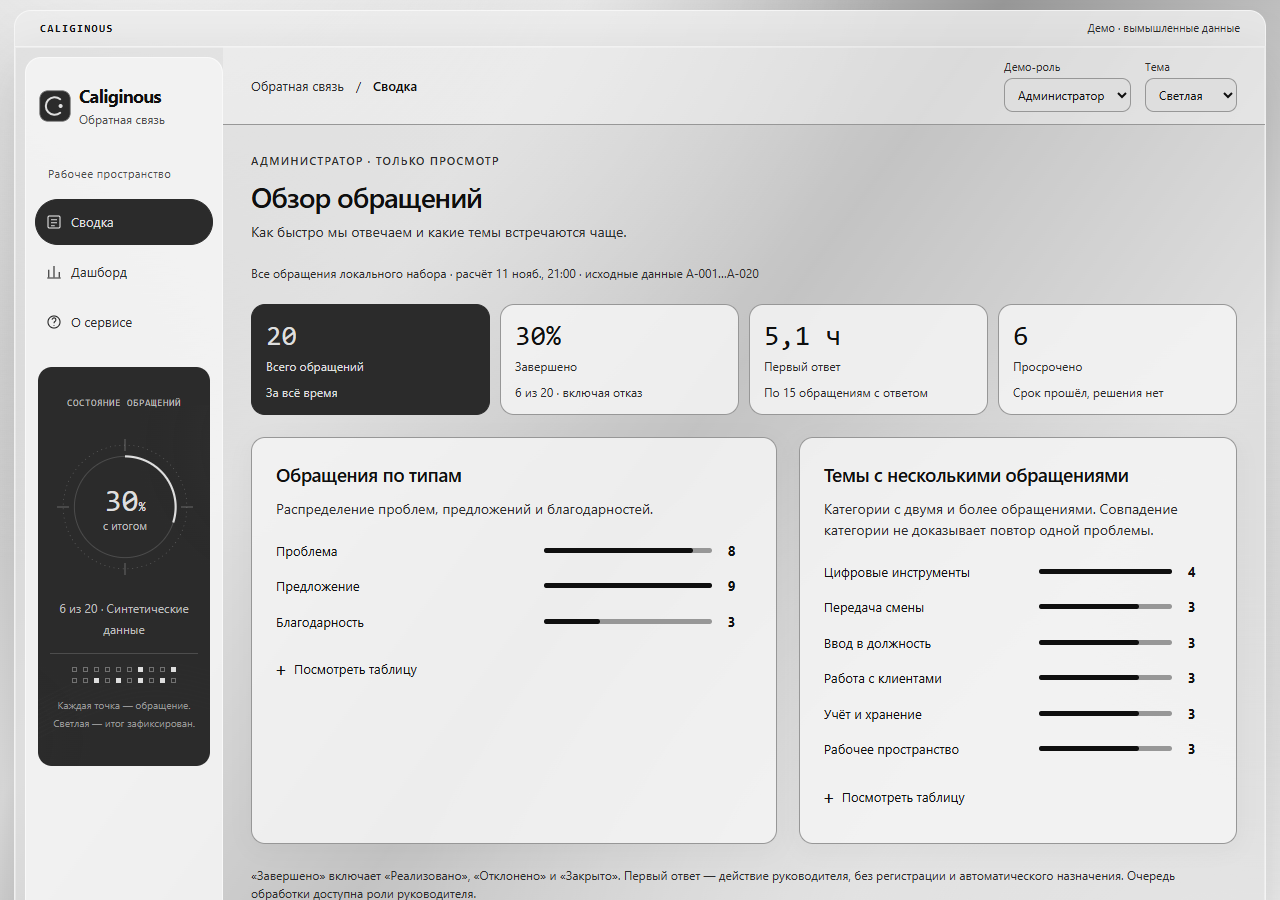
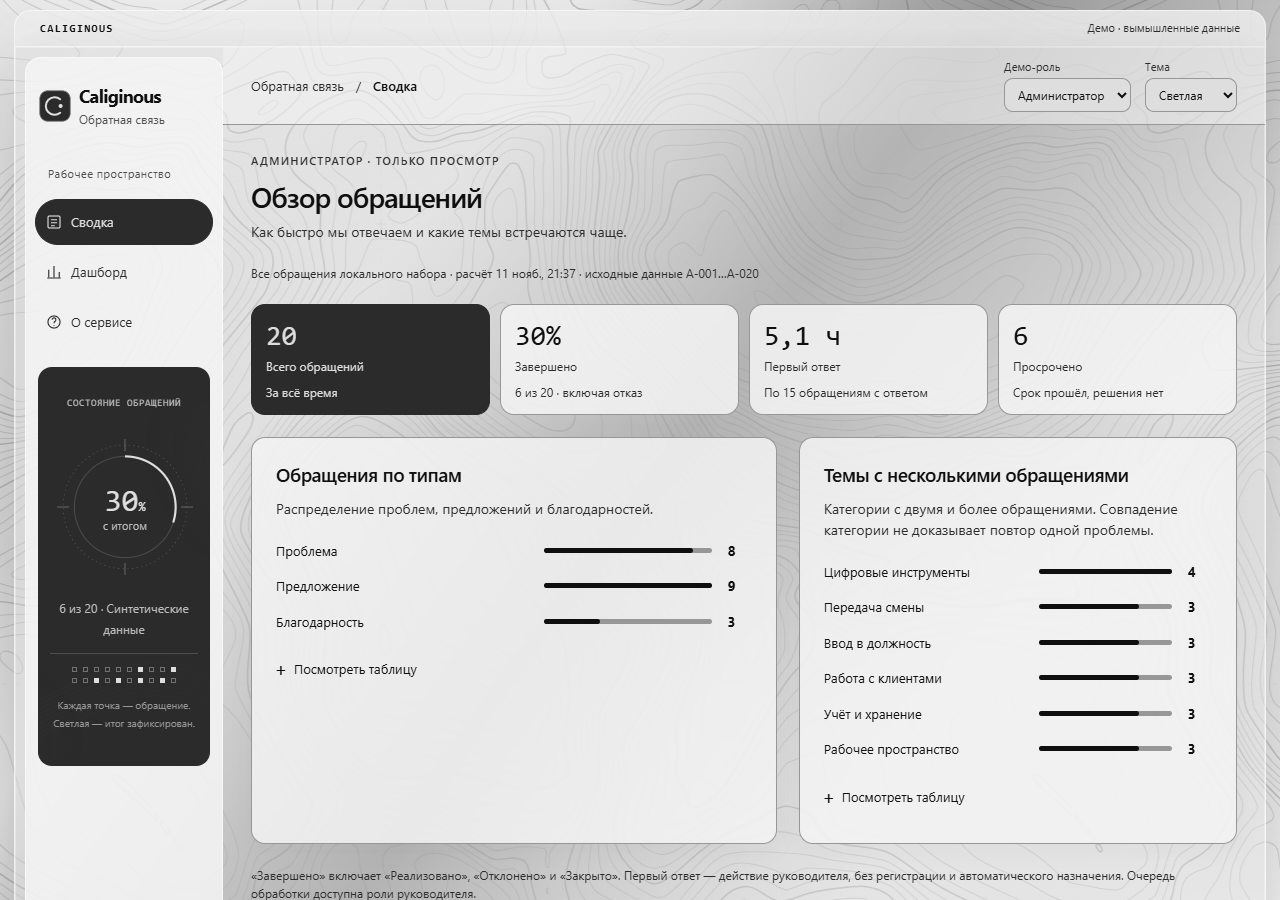
feat: animate dashboard and add contour glass backdrop

diff --git a/index.html b/index.html
@@ -1,5 +1,5 @@
 <!doctype html>
-<html lang="ru"><head><meta charset="utf-8"><meta name="viewport" content="width=device-width,initial-scale=1"><meta name="color-scheme" content="dark light"><meta name="description" content="Caliginous — интерактивное дизайн-демо сервиса обратной связи сотрудников."><title>Caliginous — обратная связь сотрудников</title><link rel="icon" href="mark.svg" type="image/svg+xml"><link rel="stylesheet" href="prototype.css"><link rel="stylesheet" href="moodboard.css"><link rel="stylesheet" href="dashboard.css"><link rel="stylesheet" href="release.css"></head>
+<html lang="ru"><head><meta charset="utf-8"><meta name="viewport" content="width=device-width,initial-scale=1"><meta name="color-scheme" content="dark light"><meta name="description" content="Caliginous — интерактивное дизайн-демо сервиса обратной связи сотрудников."><title>Caliginous — обратная связь сотрудников</title><link rel="icon" href="mark.svg" type="image/svg+xml"><link rel="stylesheet" href="prototype.css"><link rel="stylesheet" href="moodboard.css"><link rel="stylesheet" href="dashboard.css"><link rel="stylesheet" href="release.css"><link rel="stylesheet" href="motion.css"></head>
 <body class="dark">
 <a class="skip" href="#main">Перейти к содержимому</a>
 <div class="prototype-bar"><span><b>CALIGINOUS</b></span><span>Демо · вымышленные данные</span></div>
@@ -10,7 +10,7 @@
 <div class="asidebottom"><span class="avatar" aria-hidden="true">М</span><span><b id="roleName">Руководитель</b><small>Демонстрация роли</small></span></div></aside>
 <div class="workspace"><header class="app-header"><div class="breadcrumb"><span>Обратная связь</span><span aria-hidden="true">/</span><strong id="crumb">Очередь</strong></div><div class="header-controls"><label for="role">Демо-роль<select id="role"><option value="manager">Руководитель</option><option value="employee">Сотрудник</option><option value="admin">Администратор</option></select></label><label for="theme">Тема<select id="theme"><option value="dark">Тёмная</option><option value="light">Светлая</option></select></label></div></header>
 <main id="main" tabindex="-1"></main>
-<footer><span>Демо сохраняет изменения в этой вкладке</span><details class="view-tools"><summary>Настройки демо</summary><div><label for="state">Состояние интерфейса<select id="state"><option value="ready">Обычное</option><option value="loading">Загрузка</option><option value="empty">Пусто</option><option value="error">Ошибка</option><option value="partial">Частичные данные</option><option value="permission">Нет доступа</option></select></label><button id="reset" class="btn">Восстановить примеры</button></div></details></footer></div></div>
+<footer><span>Демо сохраняет изменения в этой вкладке</span><details class="view-tools"><summary>Настройки демо</summary><div><label for="state">Состояние интерфейса<select id="state"><option value="ready">Обычное</option><option value="loading">Загрузка</option><option value="empty">Пусто</option><option value="error">Ошибка</option><option value="partial">Частичные данные</option><option value="permission">Нет доступа</option></select></label><label class="checkbox-label motion-toggle"><input type="checkbox" id="motion-toggle" aria-describedby="motion-hint">Анимации</label><p id="motion-hint" class="hint" hidden>В системе включено уменьшение движения.</p><button id="reset" class="btn">Восстановить примеры</button></div></details></footer></div></div>
 <div class="sr-only" id="announcement" role="status" aria-live="polite"></div>
 <dialog id="action-dialog" aria-labelledby="dialog-title"><div class="dialog-head"><h2 id="dialog-title"></h2><button type="button" class="icon-button" id="close-dialog" aria-label="Закрыть диалог">×</button></div><div id="dialog-body"></div></dialog>
-<script src="data.js"></script><script src="workspace.js"></script><script src="dashboard.js"></script><script src="prototype.js"></script></body></html>
+<script src="data.js"></script><script src="workspace.js"></script><script src="dashboard.js"></script><script src="motion.js"></script><script src="prototype.js"></script></body></html>

diff --git a/prototype.js b/prototype.js
@@ -60,24 +60,31 @@ function nav(){
   const showSignal = (mode === 'ready' || mode === 'partial') && visibleItems.length > 0;
   sideNote.hidden = !showSignal;
   if (!showSignal) {
+    delete sideNote.dataset.snapshot;
     sideNote.replaceChildren();
     return;
   }
-  const closed = visibleItems.filter(x => terminal.includes(x.status)).length;
+  const outcomes = visibleItems.map(item => terminal.includes(item.status));
+  const snapshot = `${role}:${outcomes.map(Number).join('')}`;
+  if (sideNote.dataset.snapshot === snapshot) return;
+  sideNote.dataset.snapshot = snapshot;
+  const closed = outcomes.filter(Boolean).length;
   const percent = closed / visibleItems.length * 100;
   const scope = role === 'employee' ? 'МОИ ОБРАЩЕНИЯ' : 'СОСТОЯНИЕ ОБРАЩЕНИЙ';
   sideNote.innerHTML = `<span class="signal-label">${scope}</span>
     <div class="signal-dial">
       <svg viewBox="0 0 160 160" aria-hidden="true">
-        <circle class="dial-outer" cx="80" cy="80" r="66"/>
+        <g class="dial-orbit">
+          <circle class="dial-outer" cx="80" cy="80" r="66"/>
+          <path class="dial-cross" d="M80 8v12m0 120v12M8 80h12m120 0h12"/>
+        </g>
         <circle class="dial-track" cx="80" cy="80" r="54"/>
         <circle class="dial-progress" cx="80" cy="80" r="54" pathLength="100" stroke-dasharray="${percent} 100" transform="rotate(-90 80 80)"/>
-        <path class="dial-cross" d="M80 8v12m0 120v12M8 80h12m120 0h12"/>
       </svg>
       <div><strong>${Math.round(percent)}<small>%</small></strong><span>с итогом</span></div>
     </div>
     <p>${closed} из ${visibleItems.length} · Синтетические данные</p>
-    <div class="signal-pixels" aria-hidden="true">${visibleItems.map(x => `<i class="${terminal.includes(x.status) ? 'done' : ''}"></i>`).join('')}</div>
+    <div class="signal-pixels" aria-hidden="true">${outcomes.map(done => `<i class="${done ? 'done' : ''}"></i>`).join('')}</div>
     <p class="signal-caption">Каждая точка — обращение.<br>Светлая — итог зафиксирован.</p>`;
 }
 function blockedState(route){
@@ -170,6 +177,7 @@ function render(focus=false){
   if (route === 'dashboard' && !blocked) bindDashboard();
   if (route === 'inbox' && !blocked) bindInbox();
   if(focus){$('#main').focus({preventScroll:true});window.scrollTo(0,0);}
+  observeMotion();
 }
 function resetFilters(){quick='all';search='';cat='';status='';dept='';dueAfter='';dueBefore='';render();announce('Фильтры сброшены.');}
 function currentItem(){return items.find(x=>x.id===current().id);}
@@ -255,4 +263,5 @@ $('.skip').onclick=e=>{e.preventDefault();$('#main').focus();};
 $('#action-dialog').addEventListener('close',()=>{if(returnFocus?.isConnected)returnFocus.focus();});
 window.addEventListener('hashchange',()=>render(true));
 if(location.hash==='#main')location.hash='#'+home();
+initMotion();
 render();

diff --git a/motion.css b/motion.css
@@ -1,0 +1,65 @@
+/* The contour mask is independent of the panel tint and stays still on scroll. */
+body { isolation: isolate; }
+
+@supports (mask-image: url('terrain.svg')) {
+  body::before {
+    content: '';
+    position: fixed;
+    inset: 0;
+    z-index: -1;
+    pointer-events: none;
+    background: #4d4d4d52;
+    mask: url('terrain.svg') 42% 30% / 920px 920px repeat;
+  }
+
+  body.dark::before { background: #bcbcbc5c; }
+  body.dark .app { background: #0f0f0f30; }
+  body.dark .workspace { background: linear-gradient(135deg, #0f0f0f26, #19191960 78%, #0f0f0f38); }
+  body:not(.dark) .app { background: #dedede65; }
+
+  body.dark .panel { background: #2b2b2bd1; }
+  body:not(.dark) .panel { background: #f4f4f4d4; }
+  .dash-panel, .summarygrid .panel { backdrop-filter: blur(1px); }
+
+  @media (max-width: 560px) {
+    body::before { mask-size: 670px 670px; }
+  }
+}
+
+.view-tools .motion-toggle { margin-top: 9px; }
+.view-tools #motion-hint { margin: 0; }
+.dial-orbit { transform-box: view-box; transform-origin: 50% 50%; }
+
+@media (prefers-reduced-motion: no-preference) {
+  [data-motion='on'] .dial-orbit {
+    animation: orbit-dial 72s linear infinite paused;
+  }
+
+  [data-motion='on'] .dial-visible .dial-orbit { animation-play-state: running; }
+  [data-motion='on'] .motion-enter .dial-progress { animation: fill-dial 800ms cubic-bezier(.2,.72,.2,1) both; }
+  [data-motion='on'] :is(.metrics, .panel, .activity).motion-enter:not(:focus-within) {
+    animation: enter-panel 420ms cubic-bezier(.2,.72,.2,1) both;
+  }
+
+  [data-motion='on'] :is(.dash-distribution li, .barrow).motion-enter :is(.dash-track, .bar) i {
+    transform-origin: left center;
+    animation: fill-scale 720ms cubic-bezier(.2,.72,.2,1) var(--scale-delay, 0ms) both;
+  }
+
+  :is(.dash-distribution li, .barrow):nth-child(2) { --scale-delay: 45ms; }
+  :is(.dash-distribution li, .barrow):nth-child(3) { --scale-delay: 90ms; }
+  :is(.dash-distribution li, .barrow):nth-child(4) { --scale-delay: 135ms; }
+  :is(.dash-distribution li, .barrow):nth-child(5) { --scale-delay: 180ms; }
+  :is(.dash-distribution li, .barrow):nth-child(n+6) { --scale-delay: 225ms; }
+  [data-motion='on'] .dash-plot.motion-enter .dash-series { animation: reveal-series 850ms cubic-bezier(.2,.72,.2,1) both; }
+
+  [data-motion='on'] :is(.btn, .row, .navlink, .myitem, .inbox-item) {
+    transition: background-color 160ms ease, border-color 160ms ease, box-shadow 160ms ease;
+  }
+
+  @keyframes orbit-dial { to { transform: rotate(1turn); } }
+  @keyframes fill-dial { from { stroke-dasharray: 0 100; } }
+  @keyframes enter-panel { from { opacity: .77; transform: translateY(9px); } }
+  @keyframes fill-scale { from { transform: scaleX(0); } to { transform: scaleX(1); } }
+  @keyframes reveal-series { from { clip-path: inset(0 100% 0 0); } to { clip-path: inset(0); } }
+}

diff --git a/motion.js b/motion.js
@@ -1,0 +1,60 @@
+'use strict';
+
+let motionEnabled = true;
+const reducedMotion = matchMedia('(prefers-reduced-motion: reduce)');
+let motionObserver;
+
+function observeMotion() {
+  motionObserver?.disconnect();
+  if (!motionEnabled || reducedMotion.matches || !('IntersectionObserver' in window)) return;
+
+  motionObserver = new IntersectionObserver((entries, observer) => {
+    for (const entry of entries) {
+      const element = entry.target;
+      const dial = element.classList.contains('signal-dial');
+      if (dial) element.classList.toggle('dial-visible', entry.isIntersecting);
+      if (!entry.isIntersecting) continue;
+
+      element.classList.add('motion-enter');
+      if (!dial) observer.unobserve(element);
+    }
+  }, { threshold: 0.12 });
+
+  const targets = document.querySelectorAll([
+    '.signal-dial', '.metrics', '.dash-panel', '.dash-distribution li', '.dash-plot',
+    '.summarygrid .panel', '.barrow', '.myitem', '.about-card', '.activity',
+  ].join(', '));
+  for (const target of targets) {
+    if (target.classList.contains('signal-dial') || !target.classList.contains('motion-enter')) {
+      motionObserver.observe(target);
+    }
+  }
+}
+
+function initMotion() {
+  const toggle = document.querySelector('#motion-toggle');
+  const hint = document.querySelector('#motion-hint');
+  motionEnabled = savedSession.motionEnabled !== false;
+
+  const sync = () => {
+    const active = motionEnabled && !reducedMotion.matches;
+    document.documentElement.dataset.motion = active ? 'on' : 'off';
+    toggle.checked = active;
+    toggle.disabled = reducedMotion.matches;
+    hint.hidden = !reducedMotion.matches;
+    if (!active) {
+      document.querySelectorAll('.motion-enter, .dial-visible').forEach(element => {
+        element.classList.remove('motion-enter', 'dial-visible');
+      });
+    }
+    observeMotion();
+  };
+
+  toggle.addEventListener('change', () => {
+    motionEnabled = toggle.checked;
+    sync();
+    saveSession();
+  });
+  reducedMotion.addEventListener('change', sync);
+  sync();
+}

diff --git a/dashboard.js b/dashboard.js
@@ -42,9 +42,11 @@ function dashboardTrendPanel(days) {
     <div class="dash-legend"><span><i></i> Подано · ${created}</span><span><i></i> Завершено · ${closed}</span></div>
     <svg class="dash-plot" viewBox="0 0 610 152" aria-hidden="true" focusable="false">
       ${ticks.map(tick => `<line x1="${plot.left}" x2="${plot.right}" y1="${y(tick)}" y2="${y(tick)}"/><text x="22" y="${y(tick)}" dominant-baseline="middle" text-anchor="end">${tick}</text>`).join('')}
-      <polygon points="${plot.left},${plot.bottom} ${points('created')} ${plot.right},${plot.bottom}"/>
-      <polyline points="${points('created')}"/>
-      <polyline class="dash-closed-line" points="${points('closed')}"/>
+      <g class="dash-series">
+        <polygon points="${plot.left},${plot.bottom} ${points('created')} ${plot.right},${plot.bottom}"/>
+        <polyline points="${points('created')}"/>
+        <polyline class="dash-closed-line" points="${points('closed')}"/>
+      </g>
     </svg>
     <div class="dash-plot-dates" aria-hidden="true"><span>${days[0].label}</span><span>${days[6].label}</span><span>${days.at(-1).label}</span></div>
     ${created + closed === 0 ? '<p class="hint dash-no-trend">За этот период обращений не подано и не завершено.</p>' : ''}

diff --git a/workspace.js b/workspace.js
@@ -14,7 +14,7 @@ function readSession() {
 function saveSession() {
   try {
     sessionStorage.setItem(sessionKey, JSON.stringify({
-      items, role, draft, lastCreated, seen: [...seenNotifications], theme: $('#theme').value,
+      items, role, draft, lastCreated, seen: [...seenNotifications], theme: $('#theme').value, motionEnabled,
     }));
   } catch {
     // The demo still works in memory if storage is restricted or full.

diff --git a/README.md b/README.md
@@ -22,6 +22,8 @@
 
 ## Дизайн
 
-Тёмная тема использует графит, тонкие HUD-линии и пиксельный индикатор обращений. В светлой теме матовые поверхности, мягкие скругления и графитовые карточки выделяют основные действия и показатели. В обеих темах смысл статуса передаётся текстом, а у графика динамики есть таблица данных.
+Тёмная тема использует графит, тонкие HUD-линии и пиксельный индикатор обращений. В светлой теме матовые поверхности, мягкие скругления и графитовые карточки выделяют основные действия и показатели. Под панелями видны линии рельефа. При прокрутке шкалы заполняются по мере появления, а пунктир вокруг индикатора медленно вращается. Анимации можно выключить в **Настройках демо**. Демо учитывает системную настройку уменьшения движения.
+
+![Дашборд с топографическим узором](screenshots/dashboard-motion.png)
 
 ![Светлая сводка администратора](screenshots/summary-light.png)
